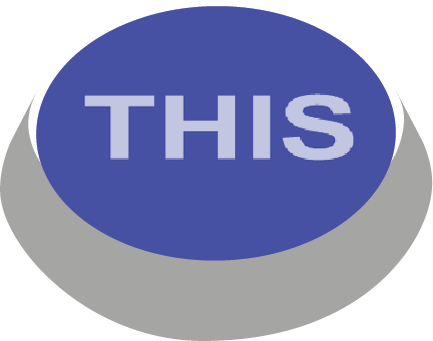
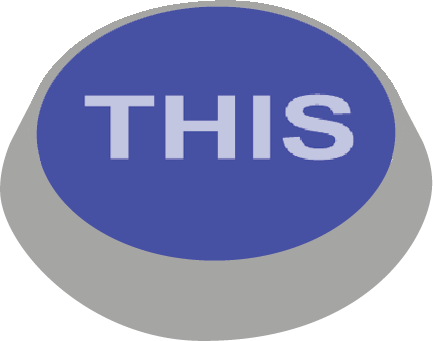
update

Changed region(s): [[0.06, 0.0, 0.9307, 0.4692]]

diff --git a/pages/portal/index.jsx b/pages/portal/index.jsx
@@ -29,7 +29,7 @@ export default function Portal() {
           <div
             className={css.messageLines}
           >
-              You have 30:00 to finish <br/> decorating your exhibition.
+              You have <span style={{color: 'greenyellow', fontFamily: 'VT323, monospace', fontSize: '6vw'}}>30:00</span> to finish <br/> decorating your exhibition.
           </div>
           <div 
             className={css.messageLines2}
@@ -46,7 +46,7 @@ export default function Portal() {
           </div>
         </div>
         <div className={css.messageLines3}>
-          press THIS button to begin
+          press <span className={css.messageLines3_span}>THIS</span> button to begin
         </div>
         <div 
           className={isButtonPressed?  css.thisButtonPressedContainer : css.thisButtonContainer}

diff --git a/pages/portal/index.module.css b/pages/portal/index.module.css
@@ -44,24 +44,35 @@
   mix-blend-mode: normal;
   color: white;
   display: flex;
-  flex-direction: column;
-  align-items: center;
-  font-size: 5vw;
+  flex-direction: row;
+  align-items: baseline;
+  justify-content: center;
+  font-size: 7vw;
   margin-top: 16vw;
   padding: 1vw;
+  font-family: 'VT323', monospace;
 }
+
+.messageLines3_span{
+  background-color: rgb(30, 109, 255);
+  padding-left: 1vw;
+  padding-right: 1vw;
+  margin-left: 2vw;
+  margin-right: 2vw;
+}
+
 .thisButtonContainer{
   position: relative;
   width: 40vw;
-  height: 27vw;
+  height: 30vw;
   /**/
-  margin-top: 16vw;
+  margin-top: 14vw;
 }
 
 .thisButtonPressedContainer{
   position: relative;
   width: 40vw;
-  height: 24vw;
+  height: 27vw;
   /**/
-  margin-top: calc(16vw + 3vw);
+  margin-top: calc(14vw + 3vw);
 }

diff --git a/pages/twitter/index.jsx b/pages/twitter/index.jsx
@@ -24,15 +24,20 @@ export default function Google() {
         <ZeFace zIndex={2} mixBlendMode={'hard-light'} opacity={'20%'}/>
       </div>
       <div className={css.headingContainer}>
-        <div>
-          THE EXHIBITION
+        <div className={css.titleContainer}>
+          <div>
+            THE EXHIBITION
+          </div>
         </div>
-        <div>
-          by Artist #0000001
+        <div className={css.subTitleContainer}>
+          <div>
+            Artist #0000001
+          </div>
+          <div>
+            begins in <span style={{color: 'greenyellow'}}>30:00</span>
+          </div>
         </div>
-        <div>
-          coming soon in 30:00
-        </div>
+
       </div>
 
       <div

diff --git a/pages/twitter/index.module.css b/pages/twitter/index.module.css
@@ -37,6 +37,33 @@
   padding-bottom: 27vw;
 }
 
+.titleContainer{
+  font-size: 20vw;
+  width: 100vw;
+  display: flex;
+  flex-direction: row;
+  align-items: baseline;
+  justify-content: center;
+
+  margin-top: 15vw;
+  /* margin-bottom: 10vw; */
+}
+
+.titleContainer > div {
+  width: min-content;
+}
+
+.subTitleContainer {
+  width: 100vw;
+  flex-direction: column;
+  
+  margin-top: 5vw;
+}
+
+.subTitleContainer div {
+  text-align: center;
+}
+
 .paintingSetContainer{
   width: 100%;
   height: auto;

diff --git a/styles/globals.css b/styles/globals.css
@@ -1,4 +1,5 @@
 @import url('https://fonts.googleapis.com/css2?family=VT323&display=swap');
+@import url('https://fonts.googleapis.com/css2?family=Zeyada&display=swap');
 
 :root {
   /*upside down*/
